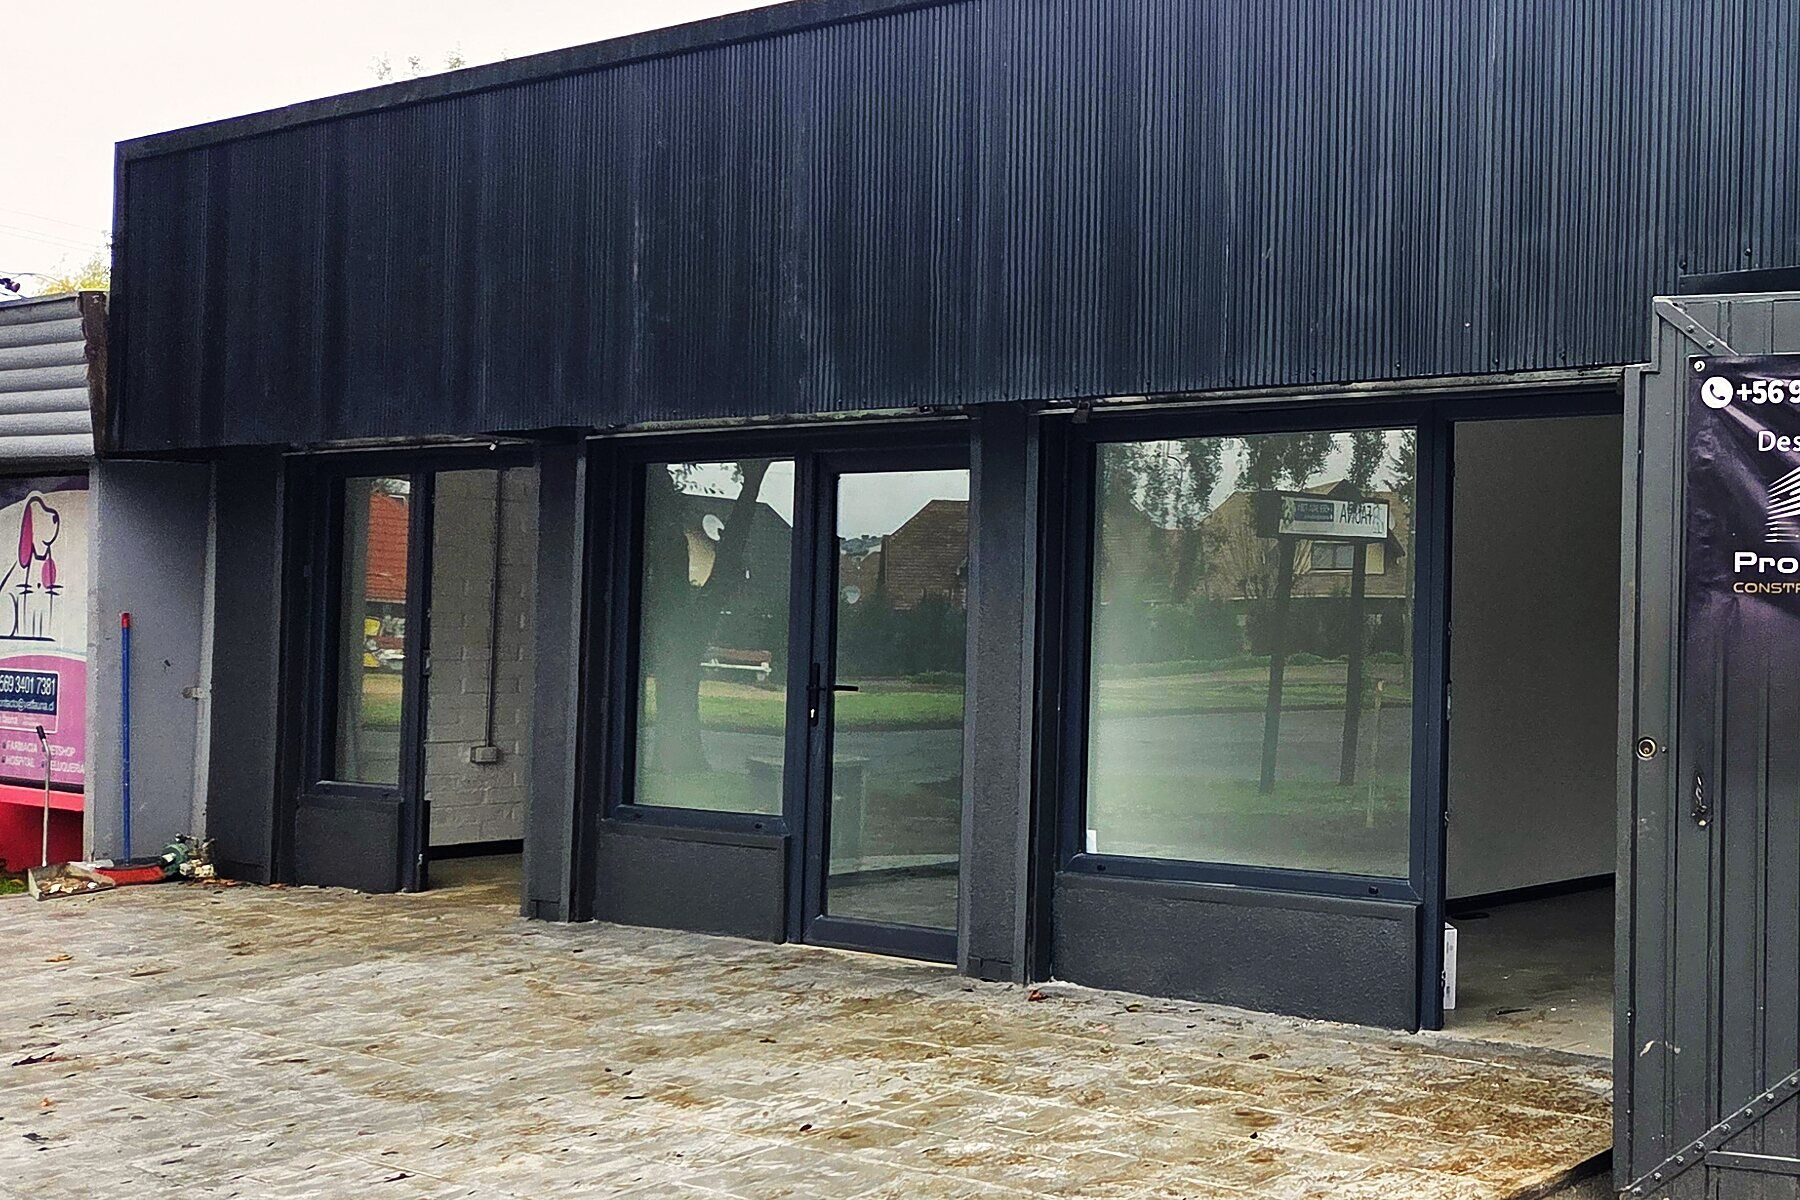
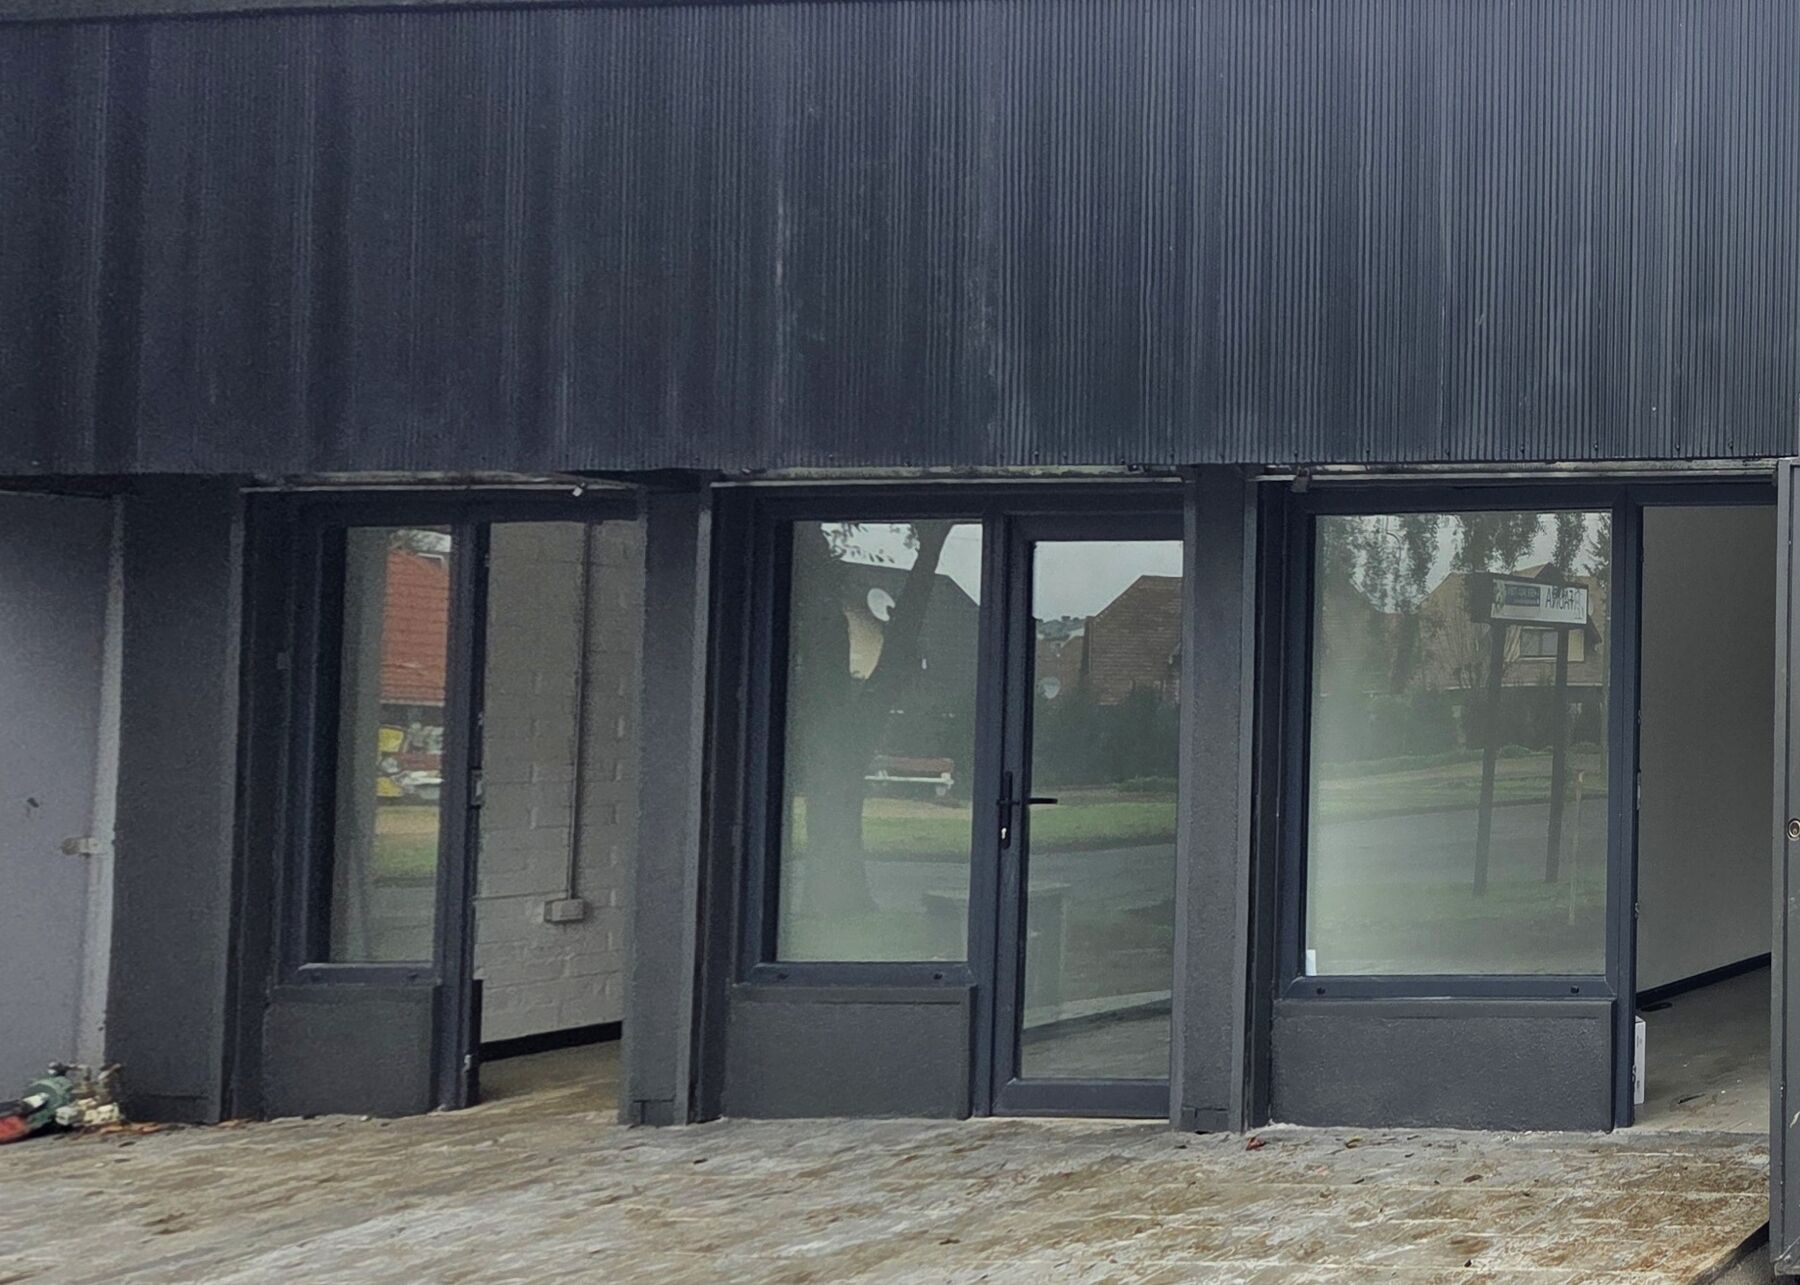
Portada nueva: Zenteno 462 de protagonista; fotos de Zenteno y Olimpia enderezadas

diff --git a/index.html b/index.html
@@ -87,32 +87,33 @@ section{padding:96px 0}
 .abierto .hamburguesa span::after{top:0;transform:rotate(-45deg)}
 
 /* portada */
-.portada{position:relative;min-height:100svh;display:flex;align-items:flex-end;color:#fff;overflow:hidden;background:#000}
-.portada .fondo{position:absolute;inset:0}
-.portada .fondo img{position:absolute;inset:0;width:100%;height:100%;object-fit:cover;opacity:0;transform:scale(1.08);transition:opacity 1.6s ease,transform 7s ease}
-.portada .fondo img.activa{opacity:1;transform:scale(1)}
-.portada::after{content:"";position:absolute;inset:0;background:linear-gradient(90deg,rgba(0,0,0,.78) 0%,rgba(0,0,0,.5) 45%,rgba(0,0,0,.08) 80%),linear-gradient(180deg,rgba(0,0,0,.5) 0%,rgba(0,0,0,0) 30%,rgba(0,0,0,.25) 60%,rgba(0,0,0,.9) 100%)}
-.portada .contenedor{position:relative;z-index:2;padding-bottom:64px;padding-top:140px}
-.portada h1{font-size:clamp(2.4rem,6vw,4.6rem);font-weight:800;max-width:820px;margin:18px 0 18px}
+.portada{position:relative;color:#fff;overflow:hidden;background:radial-gradient(900px 520px at 82% 18%,rgba(201,160,77,.13),transparent 62%),#0f0f0f}
+.portada::before{content:"";position:absolute;inset:0;pointer-events:none;background-image:linear-gradient(rgba(255,255,255,.035) 1px,transparent 1px),linear-gradient(90deg,rgba(255,255,255,.035) 1px,transparent 1px);background-size:56px 56px;-webkit-mask-image:linear-gradient(180deg,#000 30%,transparent 95%);mask-image:linear-gradient(180deg,#000 30%,transparent 95%)}
+.portada-grid{position:relative;display:grid;grid-template-columns:minmax(0,.92fr) minmax(0,1.08fr);gap:clamp(28px,4vw,64px);align-items:center;min-height:100vh;min-height:100svh;padding-top:116px;padding-bottom:52px}
+.portada h1{font-size:clamp(2.3rem,4.4vw,4.1rem);font-weight:800;margin:16px 0}
 .portada h1 em{font-style:normal;color:var(--oro)}
-.portada p.lead{font-size:clamp(1.05rem,1.6vw,1.25rem);max-width:600px;color:#e6e2da}
-.acciones{display:flex;flex-wrap:wrap;gap:14px;margin-top:32px}
-.pie-portada{display:flex;justify-content:space-between;align-items:flex-end;gap:20px;margin-top:56px;flex-wrap:wrap}
-.leyenda{font-size:.82rem;color:#cfc9bf;display:flex;align-items:center;gap:10px}
-.leyenda b{color:#fff;font-weight:700}
-.puntos{display:flex;gap:8px}
-.puntos button{width:30px;height:24px;position:relative;transition:width .3s}
-.puntos button::before{content:"";position:absolute;left:0;right:0;top:10px;height:4px;border-radius:4px;background:rgba(255,255,255,.35);transition:background .3s}
-.puntos button.activa{width:46px}
-.puntos button.activa::before{background:var(--oro)}
-
-/* cifras */
-.cifras{background:var(--carbon);color:#fff;padding:0}
-.cifras .contenedor{display:grid;grid-template-columns:repeat(4,1fr);border-top:1px solid #2a2a2a}
-.cifra{padding:34px 22px;border-right:1px solid #2a2a2a}
-.cifra:last-child{border-right:0}
-.cifra b{display:block;font-size:2.4rem;font-weight:800;color:var(--oro);line-height:1}
-.cifra span{display:block;margin-top:10px;font-size:.92rem;color:#bdb7ad}
+.portada .lead{font-size:clamp(1.02rem,1.25vw,1.16rem);color:#d9d4cb;max-width:540px}
+.acciones{display:flex;flex-wrap:wrap;gap:12px;margin-top:28px}
+.nota-cta{display:flex;align-items:center;gap:8px;margin-top:14px;font-size:.9rem;color:#cfc9bf}
+.nota-cta svg{width:17px;height:17px;flex:none;fill:none;stroke:var(--oro);stroke-width:1.8;stroke-linecap:round;stroke-linejoin:round}
+.cifras-portada{list-style:none;display:grid;grid-template-columns:repeat(3,1fr);margin-top:34px;padding-top:22px;border-top:1px solid #2a2a2a}
+.cifras-portada li{padding-right:16px}
+.cifras-portada li+li{padding-left:16px;border-left:1px solid #2a2a2a}
+.cifras-portada b{display:block;font-size:2rem;font-weight:800;color:var(--oro);line-height:1}
+.cifras-portada span{display:block;margin-top:8px;font-size:.84rem;color:#b9b3a9;line-height:1.4}
+.portada-foto{margin:0;min-width:0}
+.marco{position:relative;border-radius:18px;overflow:hidden;aspect-ratio:1038/745;background:#1b1b1b;box-shadow:0 34px 70px -34px rgba(0,0,0,.9),0 0 0 1px rgba(255,255,255,.07)}
+.marco img{position:absolute;inset:0;width:100%;height:100%;object-fit:cover;transition:opacity .45s ease}
+.marco img.saliendo{opacity:0}
+.rotulo{position:absolute;left:14px;bottom:14px;display:flex;flex-wrap:wrap;align-items:center;gap:6px 10px;max-width:calc(100% - 28px);padding:10px 14px;border-radius:12px;background:rgba(10,10,10,.74);-webkit-backdrop-filter:blur(6px);backdrop-filter:blur(6px);font-size:.88rem;color:#d8d3ca}
+.rotulo .tag{font-size:.66rem;font-weight:800;letter-spacing:.14em;text-transform:uppercase;color:#111;background:var(--oro);padding:4px 9px;border-radius:999px}
+.rotulo b{color:#fff;font-weight:700}
+.miniaturas{display:grid;grid-template-columns:repeat(4,1fr);gap:10px;margin-top:12px}
+.miniaturas button{position:relative;border-radius:10px;overflow:hidden;aspect-ratio:16/10;opacity:.55;outline:2px solid transparent;outline-offset:2px;transition:opacity .25s,outline-color .25s}
+.miniaturas button:hover{opacity:.85}
+.miniaturas button.activa{opacity:1;outline-color:var(--oro)}
+.miniaturas img{width:100%;height:100%;object-fit:cover}
+.miniaturas span{position:absolute;left:0;right:0;bottom:0;padding:16px 8px 6px;font-size:.72rem;font-weight:700;color:#fff;text-align:left;background:linear-gradient(transparent,rgba(0,0,0,.85))}
 
 /* servicios */
 .servicios-grid{display:grid;grid-template-columns:repeat(3,1fr);gap:22px;margin-top:48px}
@@ -213,6 +214,8 @@ footer a:hover{color:var(--oro)}
 /* botón flotante WhatsApp */
 .wa-flotante{position:fixed;right:20px;bottom:20px;z-index:60;width:60px;height:60px;border-radius:50%;background:#25d366;display:grid;place-items:center;box-shadow:0 12px 28px -8px rgba(0,0,0,.5);transition:transform .2s}
 .wa-flotante:hover{transform:scale(1.08)}
+.wa-flotante{transition:transform .2s,opacity .25s}
+.wa-flotante.oculto{opacity:0;pointer-events:none;transform:scale(.6)}
 .wa-flotante svg{width:32px;height:32px;fill:#fff}
 
 /* visor */
@@ -258,9 +261,6 @@ footer a:hover{color:var(--oro)}
   .abierto .menu{transform:none;visibility:visible;transition:transform .35s ease}
   .menu a{font-size:1.15rem}
   .cabecera .hamburguesa{position:relative;z-index:2}
-  .cifras .contenedor{grid-template-columns:repeat(2,1fr)}
-  .cifra:nth-child(2){border-right:0}
-  .cifra:nth-child(-n+2){border-bottom:1px solid #2a2a2a}
 }
 @media (max-width:640px){
   .contenedor{padding:0 16px}
@@ -271,14 +271,44 @@ footer a:hover{color:var(--oro)}
   .comparar{grid-template-columns:1fr}
   .pasos{grid-template-columns:1fr}
   .ig-grid{grid-template-columns:repeat(2,1fr);gap:10px}
-  .cifra{padding:24px 16px}
-  .cifra b{font-size:1.9rem}
   .btn{padding:14px 20px}
-  .portada .contenedor{padding-bottom:40px}
-  .pie-portada{margin-top:36px}
   .visor .escena{padding:56px 10px 10px}
   .visor .flecha{top:auto;bottom:10px;transform:none}
   .tarjeta-cta{min-height:320px}
+}
+@media (max-width:1100px) and (min-width:861px){
+  .menu{gap:18px}
+  .menu a{font-size:.86rem;white-space:nowrap}
+  .menu .btn{padding:10px 14px;font-size:.84rem}
+  .logo img{height:36px}
+}
+@media (max-width:1100px){
+  .portada-grid{gap:28px}
+  .cifras-portada span{font-size:.78rem}
+}
+@media (max-width:900px){
+  .portada-grid{grid-template-columns:1fr;min-height:0;padding-top:84px;padding-bottom:44px;gap:24px}
+  .portada-foto{order:-1;margin:0 -24px}
+  .marco{border-radius:0;box-shadow:none}
+  .miniaturas{padding:0 24px}
+  .portada h1{margin-top:12px}
+}
+@media (max-width:640px){
+  .portada-foto{margin:0 -16px}
+  .portada .portada-texto > .kicker{display:none}
+  .portada-grid{padding-top:72px;gap:18px}
+  .portada h1{margin-top:4px;margin-bottom:12px}
+  .portada .acciones{margin-top:20px}
+  .miniaturas{padding:0 16px;gap:8px}
+  .miniaturas span{font-size:.64rem;padding:12px 6px 4px}
+  .rotulo{left:10px;top:10px;bottom:auto;padding:7px 10px;font-size:.76rem;gap:4px 8px}
+  .rotulo .tag{font-size:.6rem;padding:3px 7px}
+  .portada .acciones .btn{flex:1 1 auto;justify-content:center}
+  .cifras-portada{margin-top:26px;padding-top:18px}
+  .cifras-portada li{padding-right:10px}
+  .cifras-portada li+li{padding-left:10px}
+  .cifras-portada b{font-size:1.6rem}
+  .cifras-portada span{font-size:.74rem}
 }
 @media (prefers-reduced-motion:reduce){
   *{animation:none!important;transition:none!important}
@@ -305,34 +335,34 @@ footer a:hover{color:var(--oro)}
 
 <main>
 <section class="portada" id="inicio">
-  <div class="fondo" id="fondo">
-    <img src="img/olimpia_hero.jpg" alt="Casa transformada en tres locales comerciales en calle Olimpia, Temuco" class="activa" fetchpriority="high" data-leyenda="Olimpia 1930 · casa transformada en tres locales">
-    <img data-src="img/anagra.jpg" alt="Oficinas habilitadas en el Edificio Centro Uno, Temuco" data-leyenda="Oficinas habilitadas · Edificio Centro Uno">
-    <img data-src="img/ercilla_ext.jpg" alt="Galpones recuperados en el sector Pueblo Nuevo, Temuco" data-leyenda="Galpones recuperados · Pueblo Nuevo">
-    <img data-src="img/zenteno.jpg" alt="Locales comerciales en calle Zenteno, Temuco" data-leyenda="Locales comerciales · Zenteno 462">
-    <img data-src="img/lican_deck.jpg" alt="Terraza en deck de casa en Licán Ray" data-leyenda="Casa en Licán Ray · terraza hacia el lago">
-  </div>
-  <div class="contenedor">
-    <span class="kicker">Constructora en Temuco · La Araucanía</span>
-    <h1>Tu local, oficina o galpón, <em>listo para operar.</em></h1>
-    <p class="lead">Arquitectura, presupuesto por partidas y obra con equipo propio. Un solo equipo desde la idea hasta la entrega.</p>
-    <div class="acciones">
-      <a class="btn btn-oro wa" href="#" target="_blank" rel="noopener"><svg viewBox="0 0 24 24" fill="currentColor"><path d="M12 2a10 10 0 0 0-8.6 15.1L2 22l5-1.3A10 10 0 1 0 12 2Zm5.4 14.1c-.2.6-1.3 1.2-1.8 1.3-.5.1-1 .1-1.7-.1a15 15 0 0 1-1.6-.6 12.3 12.3 0 0 1-4.7-4.2 5.4 5.4 0 0 1-1.1-2.9 3.1 3.1 0 0 1 1-2.3 1 1 0 0 1 .7-.3h.5c.2 0 .4 0 .6.5l.9 2.1c.1.2.1.3 0 .5l-.3.5-.4.4c-.1.1-.3.3-.1.6a9 9 0 0 0 1.6 2 8 8 0 0 0 2.4 1.5c.3.1.5.1.6-.1l.9-1.1c.2-.3.4-.2.6-.1l2 .9c.3.1.5.2.5.3.1.2.1.7-.1 1.3Z"/></svg>Cotizar por WhatsApp</a>
-      <a class="btn btn-linea" href="#obras">Ver obras</a>
+  <div class="contenedor portada-grid">
+    <div class="portada-texto">
+      <span class="kicker">Constructora en Temuco · La Araucanía</span>
+      <h1>Tu local, oficina o galpón, <em>listo para operar.</em></h1>
+      <p class="lead">Arquitectura, presupuesto por partidas y obra con equipo propio. Trabajamos por etapas, sin cerrar tu negocio.</p>
+      <div class="acciones">
+        <a class="btn btn-oro wa" href="#" target="_blank" rel="noopener"><svg viewBox="0 0 24 24" fill="currentColor" aria-hidden="true"><path d="M12 2a10 10 0 0 0-8.6 15.1L2 22l5-1.3A10 10 0 1 0 12 2Zm5.4 14.1c-.2.6-1.3 1.2-1.8 1.3-.5.1-1 .1-1.7-.1a15 15 0 0 1-1.6-.6 12.3 12.3 0 0 1-4.7-4.2 5.4 5.4 0 0 1-1.1-2.9 3.1 3.1 0 0 1 1-2.3 1 1 0 0 1 .7-.3h.5c.2 0 .4 0 .6.5l.9 2.1c.1.2.1.3 0 .5l-.3.5-.4.4c-.1.1-.3.3-.1.6a9 9 0 0 0 1.6 2 8 8 0 0 0 2.4 1.5c.3.1.5.1.6-.1l.9-1.1c.2-.3.4-.2.6-.1l2 .9c.3.1.5.2.5.3.1.2.1.7-.1 1.3Z"/></svg>Cotizar por WhatsApp</a>
+        <a class="btn btn-linea" href="#obras">Ver obras</a>
+      </div>
+      <p class="nota-cta"><svg viewBox="0 0 24 24" aria-hidden="true"><path d="M14 3H7a2 2 0 0 0-2 2v14a2 2 0 0 0 2 2h10a2 2 0 0 0 2-2V8l-5-5Z"/><path d="M14 3v5h5M9 13h6M9 17h4"/></svg>Envíanos planos, un croquis o solo la idea.</p>
+      <ul class="cifras-portada" aria-label="Proyecta en cifras">
+        <li><b>+40</b><span>obras y trabajos desde 2021</span></li>
+        <li><b>+15</b><span>mandantes: empresas, instituciones y particulares</span></li>
+        <li><b>4</b><span>comunas: Temuco, Padre Las Casas, Lautaro y Villarrica</span></li>
+      </ul>
     </div>
-    <div class="pie-portada">
-      <div class="leyenda"><b>En la foto:</b> <span id="leyenda">Olimpia 1930 · casa transformada en tres locales</span></div>
-      <div class="puntos" id="puntos"></div>
-    </div>
-  </div>
-</section>
-
-<section class="cifras" aria-label="Proyecta en cifras">
-  <div class="contenedor">
-    <div class="cifra"><b>+40</b><span>obras y trabajos desde 2021</span></div>
-    <div class="cifra"><b>+15</b><span>mandantes: empresas, instituciones y particulares</span></div>
-    <div class="cifra"><b>4</b><span>comunas: Temuco, Padre Las Casas, Lautaro y Villarrica</span></div>
-    <div class="cifra"><b>1</b><span>solo equipo: diseño, gestión y obra</span></div>
+    <figure class="portada-foto">
+      <div class="marco">
+        <img id="foto-principal" src="img/zenteno.jpg" width="1038" height="745" fetchpriority="high" alt="Edificio de locales comerciales con segundo nivel vidriado y cortinas metálicas en calle Zenteno, Temuco">
+        <figcaption class="rotulo"><span class="tag">Obra terminada</span><b id="rot-obra">Locales comerciales · Zenteno 462</b><span id="rot-lugar">Temuco · 2023</span></figcaption>
+      </div>
+      <div class="miniaturas" role="group" aria-label="Ver otras obras">
+        <button type="button" class="activa" aria-pressed="true" data-src="img/zenteno.jpg" data-obra="Locales comerciales · Zenteno 462" data-lugar="Temuco · 2023" data-alt="Edificio de locales comerciales con segundo nivel vidriado y cortinas metálicas en calle Zenteno, Temuco"><img src="img/min_zenteno.jpg" alt="" loading="lazy"><span>Zenteno 462</span></button>
+        <button type="button" aria-pressed="false" data-src="img/olimpia_hero.jpg" data-obra="Casa transformada en tres locales · Olimpia 1930" data-lugar="Temuco · 2025" data-alt="Casa transformada en tres locales comerciales, con fachada negra y vitrinas a nivel de vereda, en Temuco"><img src="img/min_olimpia.jpg" alt="" loading="lazy"><span>Olimpia 1930</span></button>
+        <button type="button" aria-pressed="false" data-src="img/ercilla_ext.jpg" data-obra="Galpones recuperados" data-lugar="Pueblo Nuevo, Temuco · 2025" data-alt="Dos galpones metálicos recuperados, con techumbre y revestimiento nuevos, en Pueblo Nuevo, Temuco"><img src="img/min_galpones.jpg" alt="" loading="lazy"><span>Galpones</span></button>
+        <button type="button" aria-pressed="false" data-src="img/lican_real.jpg" data-obra="Casa en madera y metal" data-lugar="Licán Ray · 2024 – 2025" data-alt="Casa de dos niveles en estructura mixta de madera y metal, terminada, en Licán Ray"><img src="img/min_lican.jpg" alt="" loading="lazy"><span>Licán Ray</span></button>
+      </div>
+    </figure>
   </div>
 </section>
 
@@ -595,29 +625,24 @@ ham.addEventListener("click", () => menu(!cab.classList.contains("abierto")));
 document.querySelectorAll("#menu a").forEach(a => a.addEventListener("click", () => menu(false)));
 document.addEventListener("keydown", e => { if (e.key === "Escape" && cab.classList.contains("abierto")) { menu(false); ham.focus(); } });
 
-/* ---------- portada: carrusel ---------- */
-const slides = [...document.querySelectorAll("#fondo img")];
-const puntos = document.getElementById("puntos");
-const leyenda = document.getElementById("leyenda");
-let actual = 0, timer;
-slides.forEach((s, i) => {
-  const b = document.createElement("button");
-  b.setAttribute("aria-label", "Foto " + (i + 1));
-  b.addEventListener("click", () => { ir(i); reiniciar(); });
-  puntos.appendChild(b);
-});
-function ir(i){
-  const j = (i + slides.length) % slides.length;
-  if (slides[j].dataset.src && !slides[j].getAttribute("src")) slides[j].src = slides[j].dataset.src;
-  slides[actual].classList.remove("activa"); puntos.children[actual].classList.remove("activa");
-  actual = (i + slides.length) % slides.length;
-  slides[actual].classList.add("activa"); puntos.children[actual].classList.add("activa");
-  leyenda.textContent = slides[actual].dataset.leyenda;
-}
-const quieto = matchMedia("(prefers-reduced-motion: reduce)").matches;
-function reiniciar(){ clearInterval(timer); if (!quieto) timer = setInterval(() => ir(actual + 1), 6000); }
-window.addEventListener("load", () => slides.forEach(s => { if (s.dataset.src && !s.getAttribute("src")) s.src = s.dataset.src; }));
-puntos.children[0].classList.add("activa"); reiniciar();
+/* ---------- portada: obra destacada ---------- */
+(() => { const f = document.querySelector(".wa-flotante"), b = document.querySelector(".portada .acciones .wa");
+  if (f && b && "IntersectionObserver" in window) new IntersectionObserver(es => es.forEach(e => f.classList.toggle("oculto", e.isIntersecting)), {threshold: .1}).observe(b); })();
+const fotoP = document.getElementById("foto-principal");
+const rotObra = document.getElementById("rot-obra"), rotLugar = document.getElementById("rot-lugar");
+const minis = [...document.querySelectorAll(".miniaturas button")];
+minis.forEach(b => b.addEventListener("click", () => {
+  if (b.classList.contains("activa")) return;
+  minis.forEach(x => { const on = x === b; x.classList.toggle("activa", on); x.setAttribute("aria-pressed", on); });
+  const nueva = new Image(); nueva.src = b.dataset.src;
+  fotoP.classList.add("saliendo");
+  const poner = () => {
+    fotoP.src = b.dataset.src; fotoP.alt = b.dataset.alt;
+    rotObra.textContent = b.dataset.obra; rotLugar.textContent = b.dataset.lugar;
+    requestAnimationFrame(() => fotoP.classList.remove("saliendo"));
+  };
+  setTimeout(() => { if (nueva.complete) poner(); else nueva.onload = poner; }, 260);
+}));
 
 /* ---------- render → obra ---------- */
 const pest = document.getElementById("pestanas"), comp = document.getElementById("comparacion");
